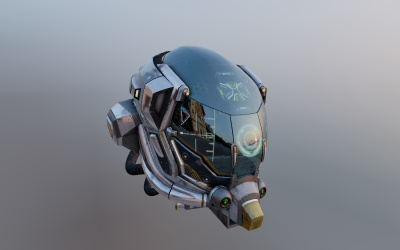
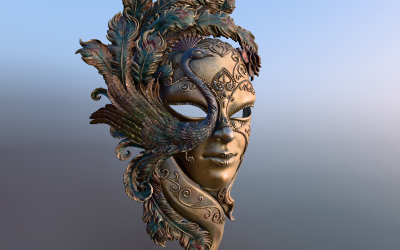
Examples: Make tonemapping demos more interesting. (#31045)

diff --git a/examples/webgl_tonemapping.html b/examples/webgl_tonemapping.html
@@ -10,8 +10,8 @@
 	<body>
 		<div id="info">
 			<a href="https://threejs.org" target="_blank" rel="noopener">three.js</a> - Tone Mapping<br />
-			Battle Damaged Sci-fi Helmet by
-			<a href="https://sketchfab.com/theblueturtle_" target="_blank" rel="noopener">theblueturtle_</a><br />
+			Venice Mask by
+			<a href="https://sketchfab.com/D.art" target="_blank" rel="noopener">DailyArt</a> is licensed under <a href="https://creativecommons.org/licenses/by-nc/4.0/" target="_blank" rel="noopener">CC Attribution-NonCommercial</a><br />
 			<a href="https://hdrihaven.com/hdri/?h=venice_sunset" target="_blank" rel="noopener">Venice Sunset</a> from <a href="https://hdrihaven.com/" target="_blank" rel="noopener">HDRI Haven</a>
 		</div>
 
@@ -31,14 +31,15 @@
 			import { GUI } from 'three/addons/libs/lil-gui.module.min.js';
 			import { OrbitControls } from 'three/addons/controls/OrbitControls.js';
 			import { GLTFLoader } from 'three/addons/loaders/GLTFLoader.js';
+			import { DRACOLoader } from 'three/addons/loaders/DRACOLoader.js';
 			import { RGBELoader } from 'three/addons/loaders/RGBELoader.js';
 
-			let mesh, renderer, scene, camera, controls;
+			let renderer, scene, camera, controls;
 			let gui, guiExposure = null;
 
 			const params = {
 				exposure: 1.0,
-				toneMapping: 'AgX',
+				toneMapping: 'Neutral',
 				blurriness: 0.3,
 				intensity: 1.0,
 			};
@@ -65,6 +66,7 @@
 				renderer = new THREE.WebGLRenderer( { antialias: true } );
 				renderer.setPixelRatio( window.devicePixelRatio );
 				renderer.setSize( window.innerWidth, window.innerHeight );
+				renderer.setAnimationLoop( animate );
 				document.body.appendChild( renderer.domElement );
 
 				renderer.toneMapping = toneMappingOptions[ params.toneMapping ];
@@ -92,24 +94,36 @@
 				scene = new THREE.Scene();
 				scene.backgroundBlurriness = params.blurriness;
 
-				camera = new THREE.PerspectiveCamera( 45, window.innerWidth / window.innerHeight, 0.25, 20 );
-				camera.position.set( - 1.8, 0.6, 2.7 );
+				const light = new THREE.DirectionalLight( 0xfff3ee, 3 ); // simualte sun
+				light.position.set( 1, 0.05, 0.7 );
+				scene.add( light );
+
+				// scene.add( new THREE.DirectionalLightHelper( light, 1, 0x000000 ) );
+
+				camera = new THREE.PerspectiveCamera( 45, window.innerWidth / window.innerHeight, 0.01, 10 );
+				camera.position.set( - 0.02, 0.03, 0.05 );
 
 				controls = new OrbitControls( camera, renderer.domElement );
-				controls.addEventListener( 'change', render ); // use if there is no animation loop
-				controls.enableZoom = false;
 				controls.enablePan = false;
-				controls.target.set( 0, 0, - 0.2 );
+				controls.enableDamping = true;
+				controls.minDistance = 0.03;
+				controls.maxDistance = 0.2;
+				controls.target.set( 0, 0.03, 0 );
 				controls.update();
 
 				const rgbeLoader = new RGBELoader()
 					.setPath( 'textures/equirectangular/' );
 
-				const gltfLoader = new GLTFLoader().setPath( 'models/gltf/DamagedHelmet/glTF/' );
+				const dracoLoader = new DRACOLoader();
+				dracoLoader.setDecoderPath( 'jsm/libs/draco/gltf/' );
+
+				const gltfLoader = new GLTFLoader();
+				gltfLoader.setDRACOLoader( dracoLoader );
+				gltfLoader.setPath( 'models/gltf/' );
 
 				const [ texture, gltf ] = await Promise.all( [
 					rgbeLoader.loadAsync( 'venice_sunset_1k.hdr' ),
-					gltfLoader.loadAsync( 'DamagedHelmet.gltf' ),
+					gltfLoader.loadAsync( 'venice_mask.glb' ),
 				] );
 
 				// environment
@@ -121,12 +135,11 @@
 
 				// model
 
-				mesh = gltf.scene.getObjectByName( 'node_damagedHelmet_-6514' );
-				scene.add( mesh );
-
-				render();
+				scene.add( gltf.scene );
 
 				window.addEventListener( 'resize', onWindowResize );
+
+				//
 
 				gui = new GUI();
 				const toneMappingFolder = gui.addFolder( 'Tone Mapping' );
@@ -139,7 +152,6 @@
 						updateGUI( toneMappingFolder );
 
 						renderer.toneMapping = toneMappingOptions[ params.toneMapping ];
-						render();
 
 					} );
 
@@ -148,7 +160,6 @@
 					.onChange( function ( value ) {
 
 						renderer.toneMappingExposure = value;
-						render();
 
 					} );
 
@@ -159,7 +170,6 @@
 					.onChange( function ( value ) {
 
 						scene.backgroundBlurriness = value;
-						render();
 
 					} );
 
@@ -168,7 +178,6 @@
 					.onChange( function ( value ) {
 
 						scene.backgroundIntensity = value;
-						render();
 
 					} );
 
@@ -178,7 +187,7 @@
 
 			}
 
-			function updateGUI( folder ) {
+			function updateGUI() {
 
 				if ( params.toneMapping === 'None' ) {
 
@@ -200,11 +209,11 @@
 
 				renderer.setSize( window.innerWidth, window.innerHeight );
 
-				render();
-
 			}
 
-			function render() {
+			function animate() {
+
+				controls.update();
 
 				renderer.render( scene, camera );
 

diff --git a/examples/webgpu_tonemapping.html b/examples/webgpu_tonemapping.html
@@ -10,8 +10,8 @@
 	<body>
 		<div id="info">
 			<a href="https://threejs.org" target="_blank" rel="noopener">three.js</a> webgpu - tone mapping<br />
-			Battle Damaged Sci-fi Helmet by
-			<a href="https://sketchfab.com/theblueturtle_" target="_blank" rel="noopener">theblueturtle_</a><br />
+			Venice Mask by
+			<a href="https://sketchfab.com/D.art" target="_blank" rel="noopener">DailyArt</a> is licensed under <a href="https://creativecommons.org/licenses/by-nc/4.0/" target="_blank" rel="noopener">CC Attribution-NonCommercial</a><br />
 			<a href="https://hdrihaven.com/hdri/?h=venice_sunset" target="_blank" rel="noopener">Venice Sunset</a> from <a href="https://hdrihaven.com/" target="_blank" rel="noopener">HDRI Haven</a>
 		</div>
 
@@ -33,14 +33,15 @@
 			import { GUI } from 'three/addons/libs/lil-gui.module.min.js';
 			import { OrbitControls } from 'three/addons/controls/OrbitControls.js';
 			import { GLTFLoader } from 'three/addons/loaders/GLTFLoader.js';
+			import { DRACOLoader } from 'three/addons/loaders/DRACOLoader.js';
 			import { RGBELoader } from 'three/addons/loaders/RGBELoader.js';
 
-			let mesh, renderer, scene, camera, controls;
+			let renderer, scene, camera, controls;
 			let gui, guiExposure = null;
 
 			const params = {
 				exposure: 1.0,
-				toneMapping: 'AgX',
+				toneMapping: 'Neutral',
 				blurriness: 0.3,
 				intensity: 1.0,
 			};
@@ -75,23 +76,36 @@
 				scene = new THREE.Scene();
 				scene.backgroundBlurriness = params.blurriness;
 
-				camera = new THREE.PerspectiveCamera( 45, window.innerWidth / window.innerHeight, 0.25, 20 );
-				camera.position.set( - 1.8, 0.6, 2.7 );
+				const light = new THREE.DirectionalLight( 0xfff3ee, 3 ); // simualte sun
+				light.position.set( 1, 0.05, 0.7 );
+				scene.add( light );
+
+				// scene.add( new THREE.DirectionalLightHelper( light, 1, 0x000000 ) );
+
+				camera = new THREE.PerspectiveCamera( 45, window.innerWidth / window.innerHeight, 0.01, 10 );
+				camera.position.set( - 0.02, 0.03, 0.05 );
 
 				controls = new OrbitControls( camera, renderer.domElement );
-				controls.enableZoom = false;
 				controls.enablePan = false;
-				controls.target.set( 0, 0, - 0.2 );
+				controls.enableDamping = true;
+				controls.minDistance = 0.03;
+				controls.maxDistance = 0.2;
+				controls.target.set( 0, 0.03, 0 );
 				controls.update();
 
 				const rgbeLoader = new RGBELoader()
 					.setPath( 'textures/equirectangular/' );
 
-				const gltfLoader = new GLTFLoader().setPath( 'models/gltf/DamagedHelmet/glTF/' );
+				const dracoLoader = new DRACOLoader();
+				dracoLoader.setDecoderPath( 'jsm/libs/draco/gltf/' );
+
+				const gltfLoader = new GLTFLoader();
+				gltfLoader.setDRACOLoader( dracoLoader );
+				gltfLoader.setPath( 'models/gltf/' );
 
 				const [ texture, gltf ] = await Promise.all( [
 					rgbeLoader.loadAsync( 'venice_sunset_1k.hdr' ),
-					gltfLoader.loadAsync( 'DamagedHelmet.gltf' ),
+					gltfLoader.loadAsync( 'venice_mask.glb' ),
 				] );
 
 				// environment
@@ -103,10 +117,11 @@
 
 				// model
 
-				mesh = gltf.scene.getObjectByName( 'node_damagedHelmet_-6514' );
-				scene.add( mesh );
+				scene.add( gltf.scene );
 
 				window.addEventListener( 'resize', onWindowResize );
+
+				//
 
 				gui = new GUI();
 				const toneMappingFolder = gui.addFolder( 'Tone Mapping' );
@@ -154,7 +169,7 @@
 
 			}
 
-			function updateGUI( folder ) {
+			function updateGUI() {
 
 				if ( params.toneMapping === 'None' ) {
 
@@ -179,6 +194,8 @@
 			}
 
 			function animate() {
+
+				controls.update();
 
 				renderer.render( scene, camera );
 